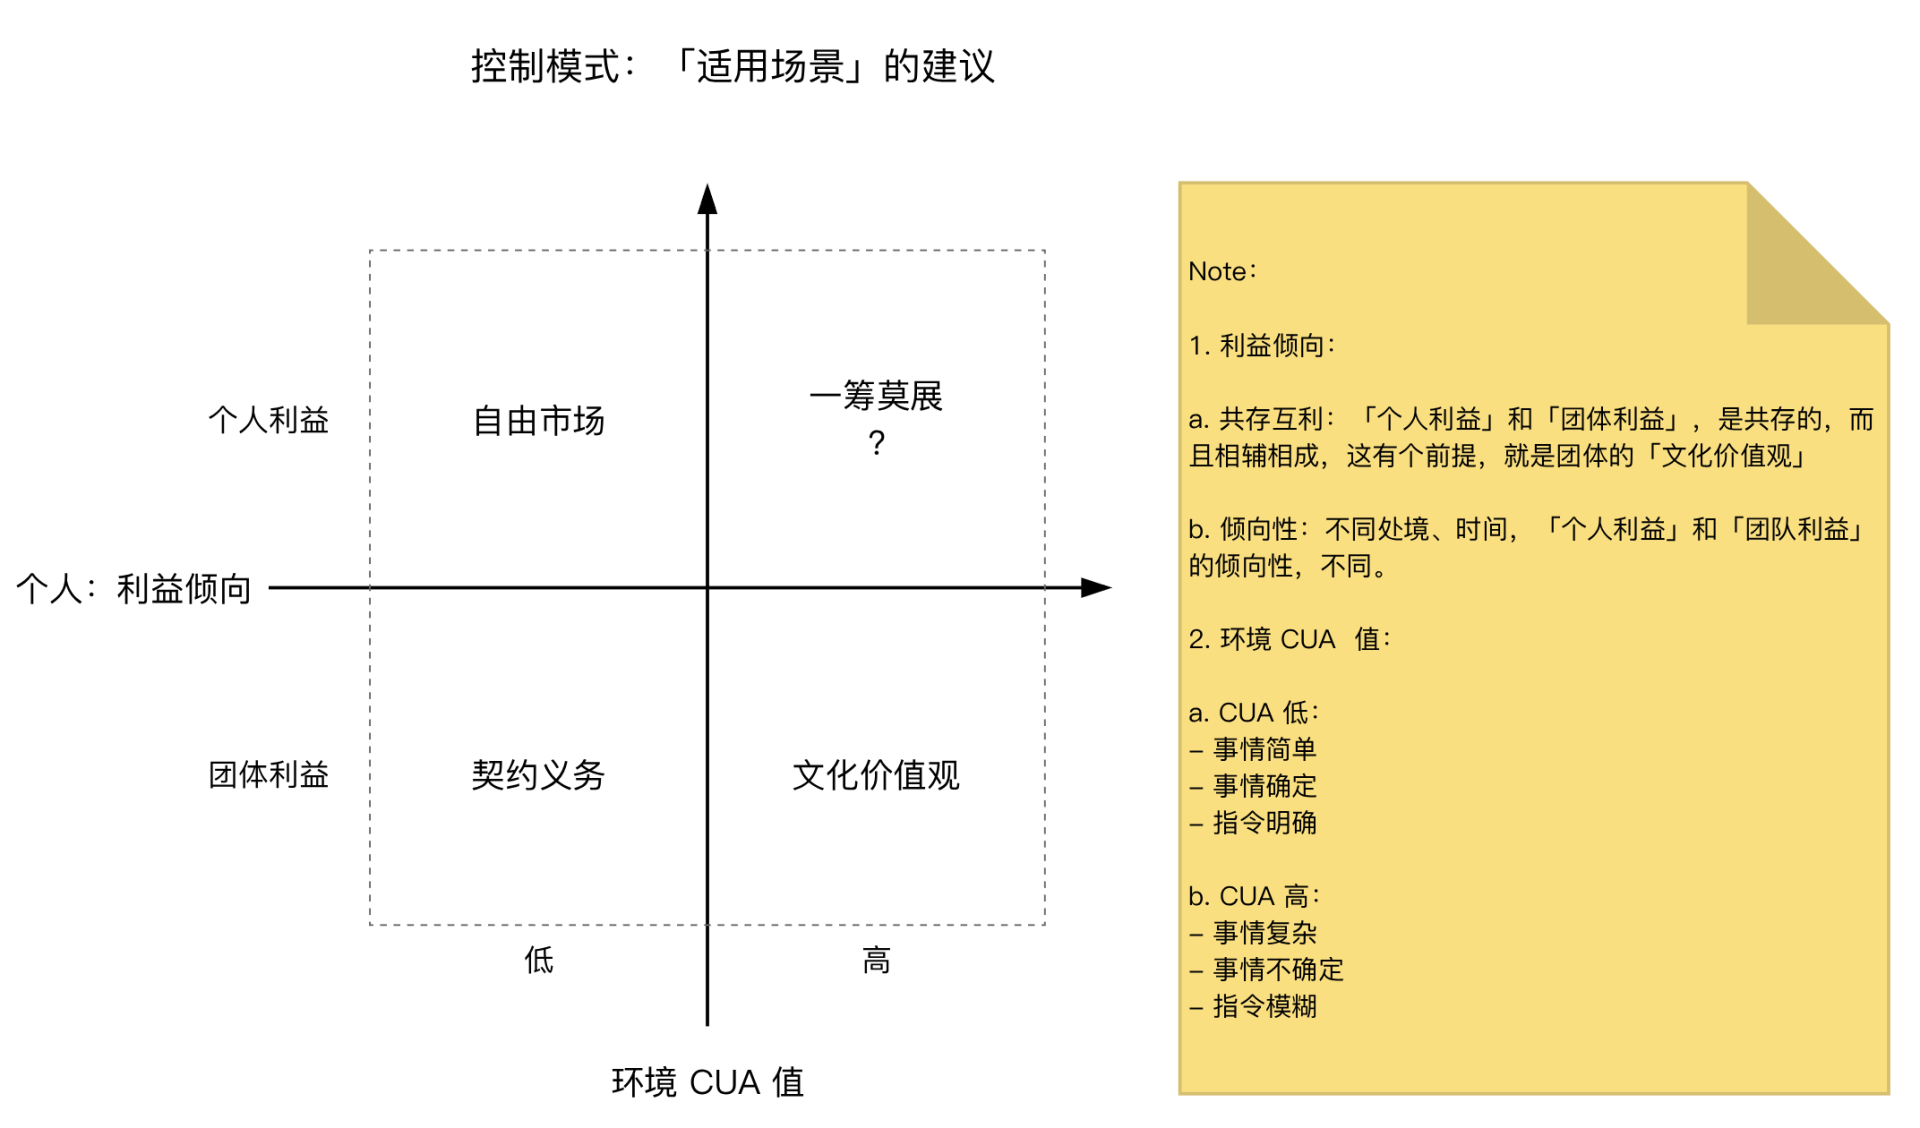
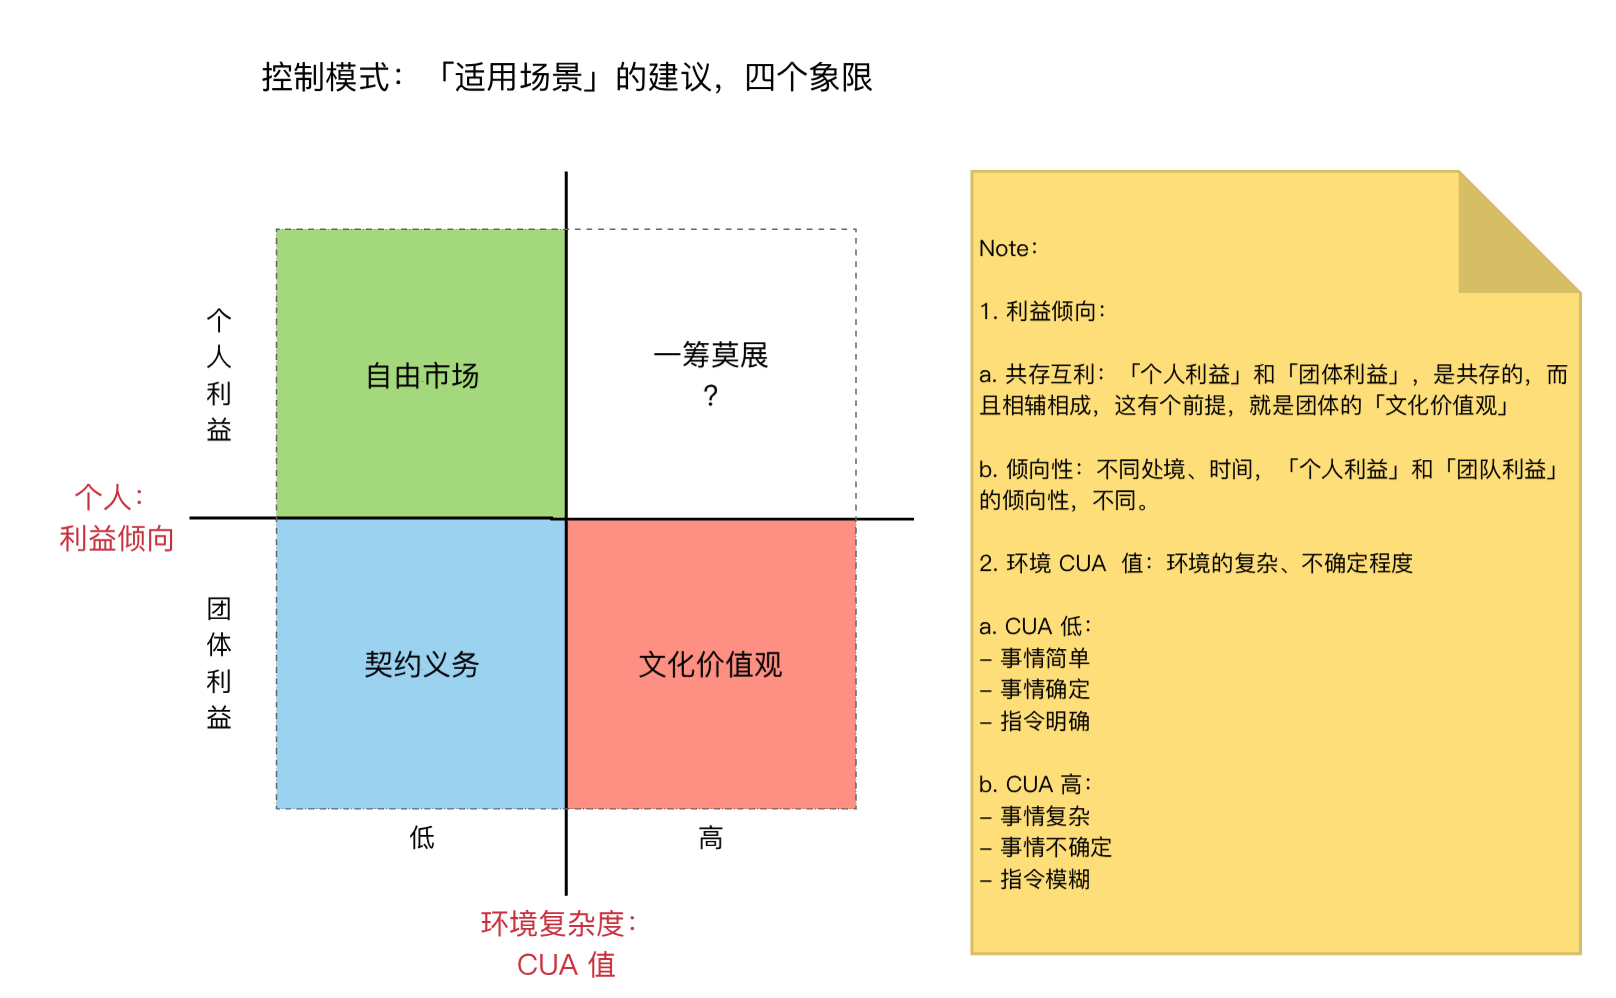
feature: 更新高绩效管理的 chapter 3，控制模式

Changed region(s): [[0.0, 0.1553, 0.9901, 0.994], [0.1547, 0.0311, 0.5569, 0.0932], [0.4022, 0.3417, 0.495, 0.4038]]

diff --git a/_posts/blog/2018-12-26-build-team-series-grove-high-output-management-chapter-3.md b/_posts/blog/2018-12-26-build-team-series-grove-high-output-management-chapter-3.md
@@ -312,6 +312,27 @@ Tips：
 
 ![](/images/build-team-series/high-output-management/control-model-four-area.png)
 
+简单说明一下：
+
+> 控制模式：是说，控制人行为的「模式」
+> 
+> 存在 3 种：
+
+> 1. 自由市场：金钱，一次性交易，钱多就行
+> 
+> 2. 契约义务：职业约束，职业的契约，例如 KPI 等，除了钱，还有职业发展的诉求
+> 
+> 3. 文化价值观：个人的价值观、团队的价值观、世界观，没有 KPI 考核，很难覆盖到
+> 
+> 「一个人」处在「一个环境」下，根据这个人关注的「个人：利益倾向」和「环境的复杂度：CUA 值」的不同， 发挥主要作用的「控制模式」是不同的。
+> 
+> 举例： 比如，我们买一台个人电脑的时候，如果电脑完全相同，我们一定只关注「多少钱」，而不会关注卖家的「价值观」，此时，就是`自由市场`模式不知觉的控制了我们的行为，而 `文化价值观` 模式并未发挥决定性作用。
+> 
+> 为什么 `自由市场` 模式控制了我们的行为呢？ 因为：
+> 
+> 1. 利益倾向：属于 `个人利益` 范畴，我们要自己花钱，希望少花钱，因为自己的钱都是汗水换来的
+> 
+> 2. CUA 值：很低，因为，相同的工业品，是确定的东西，很容易判断电脑是否是相同的
 
 围绕上述，4 象限中，不同「控制模式」的使用情况，实际应用中：
 
